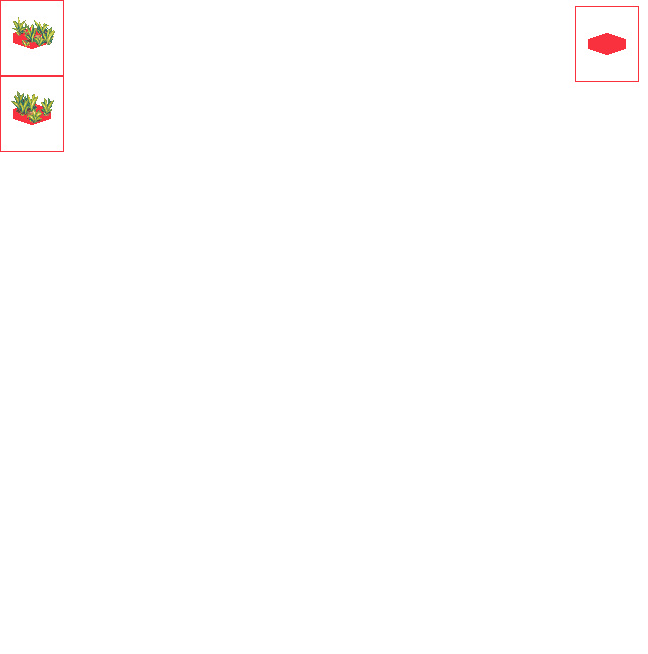
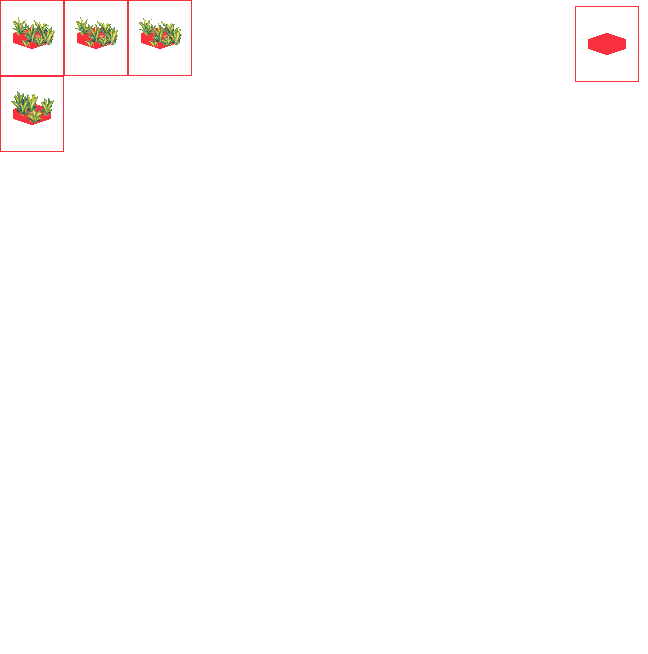
Wired in a new waving grass animation.

Changed region(s): [[0.0926, 0.0, 0.2778, 0.0917], [0.1852, 0.0917, 0.216, 0.1223]]

diff --git a/src/game/core/data/Image_Data/Tile_Image_Data.ts b/src/game/core/data/Image_Data/Tile_Image_Data.ts
@@ -404,7 +404,8 @@ export const Tile_Image_Data = {
 			h: 34,
 		},
 	},
-	"scrub-dirt-tall1": {
+
+	"scrub_dirt_tall1a": {
 		url: "bushes2.png",
 		bounds: {
 			x: 1,
@@ -412,7 +413,25 @@ export const Tile_Image_Data = {
 			w: 62,
 			h: 74,
 		},
+		frames: 1,
+		frame_duration: 130,
+		ping_pong: true,
+		pad: 2,
 	},
+	"scrub_dirt_tall1b": {
+		url: "bushes2.png",
+		bounds: {
+			x: 1,
+			y: 1,
+			w: 62,
+			h: 74,
+		},
+		frames: 3,
+		frame_duration: 230,
+		ping_pong: true,
+		pad: 2,
+	},
+	
 	"scrub-dirt-tall2": {
 		url: "bushes2.png",
 		bounds: {
@@ -932,7 +951,7 @@ export const Tile_Image_Data = {
 		pad: 2,
 		ping_pong: true
 	},
-	
+
 	wideleaf_scrub2__anim2: {
 		url: "terrain-tiles2.png",
 		bounds: {

diff --git a/src/game/core/data/Image_Data.ts b/src/game/core/data/Image_Data.ts
@@ -51,6 +51,7 @@ export const image_sequence_data_list = {
 	water_ripples_1: ['water_ripples_1a','water_ripples_1b'] as Array<Image_Data_Names>,
 	water_ripples_2: ['water_ripples_2a','water_ripples_2b','water_ripples_2c'] as Array<Image_Data_Names>,
 	water_reeds_1: ['water_reeds_1a','water_reeds_1b','water_reeds_1c'] as Array<Image_Data_Names>,
+	scrub_dirt_tall1: ['scrub_dirt_tall1a','scrub_dirt_tall1b'] as Array<Image_Data_Names>,
 
 	projectile_impact: ['projectile_impact1', 'projectile_impact2', 'projectile_impact3'] as Array<Image_Data_Names>,
 }

diff --git a/src/game/core/data/Tile_Types.ts b/src/game/core/data/Tile_Types.ts
@@ -116,7 +116,7 @@ export const tile_types: Array<Tile_Item> = [
 		graphics: [{
 			zorder: zorder.rocks,
 			asset_variants: [
-				'scrub-dirt-tall1',
+				'scrub_dirt_tall1',
 				'scrub-dirt-tall2',
 			],
 		},{
